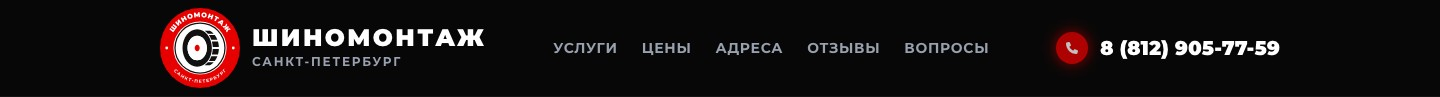
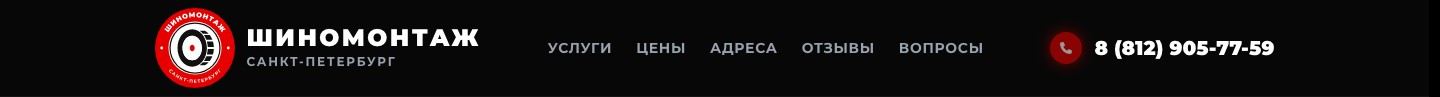
Шиномонтаж: кадры с перерисованными роликами и восемь роликов в «Что сделал»

Changed region(s): [[0.0938, 0.0619, 0.3438, 0.9278], [0.7188, 0.3093, 0.9062, 0.6804], [0.375, 0.433, 0.6875, 0.5567]]

diff --git a/src/data/works.ts b/src/data/works.ts
@@ -11,6 +11,7 @@
 //   со слов Максима 01.11.2026;
 // - шиномонтаж: README.md, remotion/README.md; вес страницы — замер живого
 //   сайта в gzip, скорость — PageSpeed Insights по живому сайту (02.11.2026);
+//   восемь роликов к шагам перерисованы и пересняты в кадрах 04.11.2026;
 // - мойка: README.md, src/data/content.ts, src/pages/privacy.astro; вес
 //   страницы, свой JS и ролики — с живого сайта (04.11.2026);
 // - ТИ: README.md;
@@ -149,7 +150,7 @@ export const works: Work[] = [
       "Цены хранятся в одном месте: из него собираются таблица, карточки для телефона и внутренние страницы - менять цену нужно один раз",
       "Три страницы под популярные запросы: правка дисков, хранение шин и шиномонтаж в Невском районе",
       "Рейтинг с Яндекс Карт обновляется автоматически, а карта загружается, только когда посетитель приближается к ней, - страница не тормозит",
-      "Анимированные ролики к разделу «Как проходит работа»",
+      "Восемь анимированных роликов к шагам правки дисков и хранения шин - они воспроизводятся, только когда видны на экране",
     ],
     metrics: [
       { value: "в 6,4 раза", label: "легче стала главная после пересборки", visual: { type: "bars", before: 314, after: 49, unit: "КБ" } },
